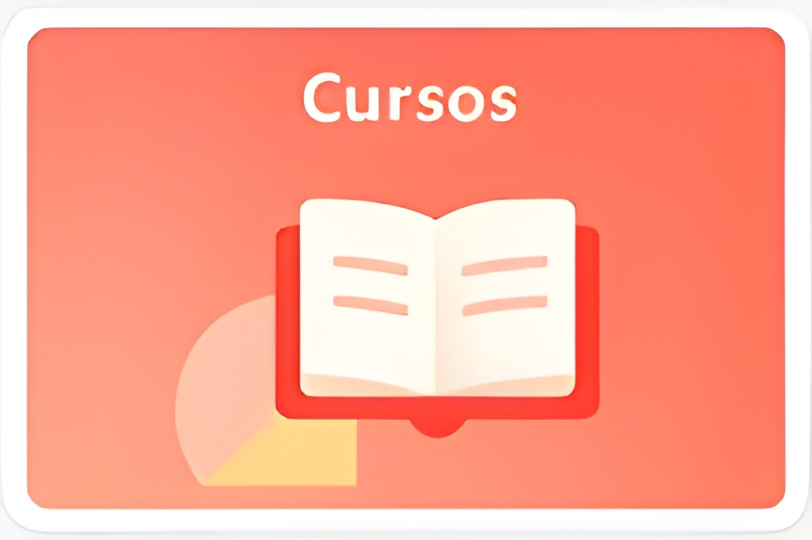
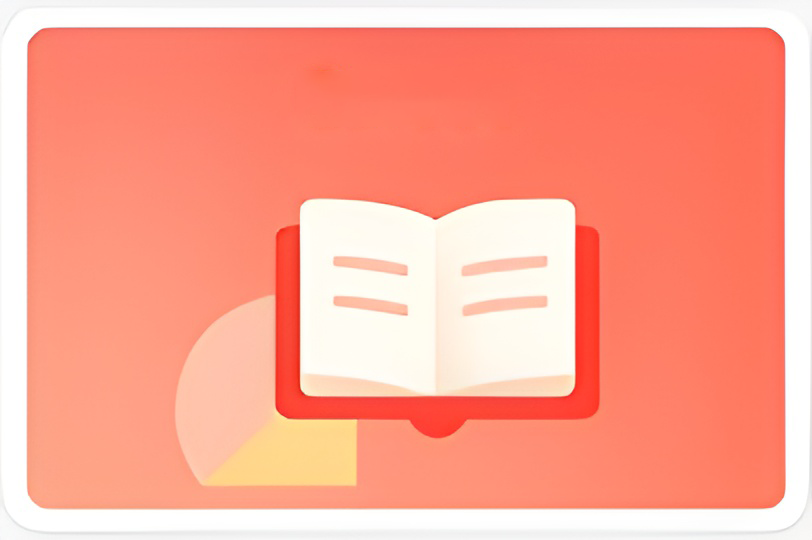
siimijitooooo

Changed region(s): [[0.3695, 0.1185, 0.6466, 0.237]]

diff --git a/frontend/src/modulos/administradorEventos/paginas/PaginaGaleriaPlantillasAdminEventos.tsx b/frontend/src/modulos/administradorEventos/paginas/PaginaGaleriaPlantillasAdminEventos.tsx
@@ -10,9 +10,8 @@ const plantillas: PlantillaEvento[] = [
   { id: "cursos", titulo: "Cursos", imagen: "/Cursos.png" },
   { id: "robotica", titulo: "Robotica", imagen: "/Robotica.png" },
   { id: "hackatec", titulo: "Hackatec", imagen: "/Hackatec.png" },
+  { id: "innovatec", titulo: "Innovatec", imagen: "/Innovatec.png" },
   { id: "estructuras", titulo: "Estructuras", imagen: "/Estructuras.png" },
-  { id: "concurso2", titulo: "Concurso", imagen: "/Concurso.png" },
-  { id: "foro2", titulo: "Foro", imagen: "/Foro.png" },
 ];
 
 export const PaginaGaleriaPlantillasAdminEventos: React.FC = () => {

diff --git a/frontend/src/modulos/administradorEventos/componentes/IncioEvento/TarjetaPlantillaEvento.tsx b/frontend/src/modulos/administradorEventos/componentes/IncioEvento/TarjetaPlantillaEvento.tsx
@@ -35,8 +35,8 @@ const TarjetaPlantillaEvento: React.FC<Props> = ({ plantilla, onClick, size = "n
         alt={plantilla.titulo}
         className="w-full h-full object-cover block"
       />
-      <div className="absolute top-2 left-2 right-2 flex">
-        <span className="inline-flex items-center px-3 py-1 rounded-full bg-white/85 text-slate-800 text-[12px] font-semibold shadow-sm">
+      <div className="absolute top-2 left-2 right-2">
+        <span className="text-white text-[24px] font-bold drop-shadow">
           {plantilla.titulo}
         </span>
       </div>

diff --git a/frontend/src/modulos/administradorEventos/componentes/desengloseEvento/constancias/SeccionConstanciasDesenglose.tsx b/frontend/src/modulos/administradorEventos/componentes/desengloseEvento/constancias/SeccionConstanciasDesenglose.tsx
@@ -129,7 +129,7 @@ const SeccionConstanciasDesenglose: FC = () => {
   // === PLANTILLA PARA PREVIEW / ENVÍO ===
   // Por ahora está fija, cámbiala luego por la URL guardada en BD
   const PLANTILLA_PDF_URL = "/Hackatec2.pdf";
-  const pdfSrc = `${PLANTILLA_PDF_URL}#page=1&zoom=page-width&toolbar=0&navpanes=0`;
+  const pdfSrc = `${PLANTILLA_PDF_URL}?ctx=constancias#page=1&zoom=page-width&toolbar=0&navpanes=0`;
 
 
   // misma idea que antes para generar imagen rápida
